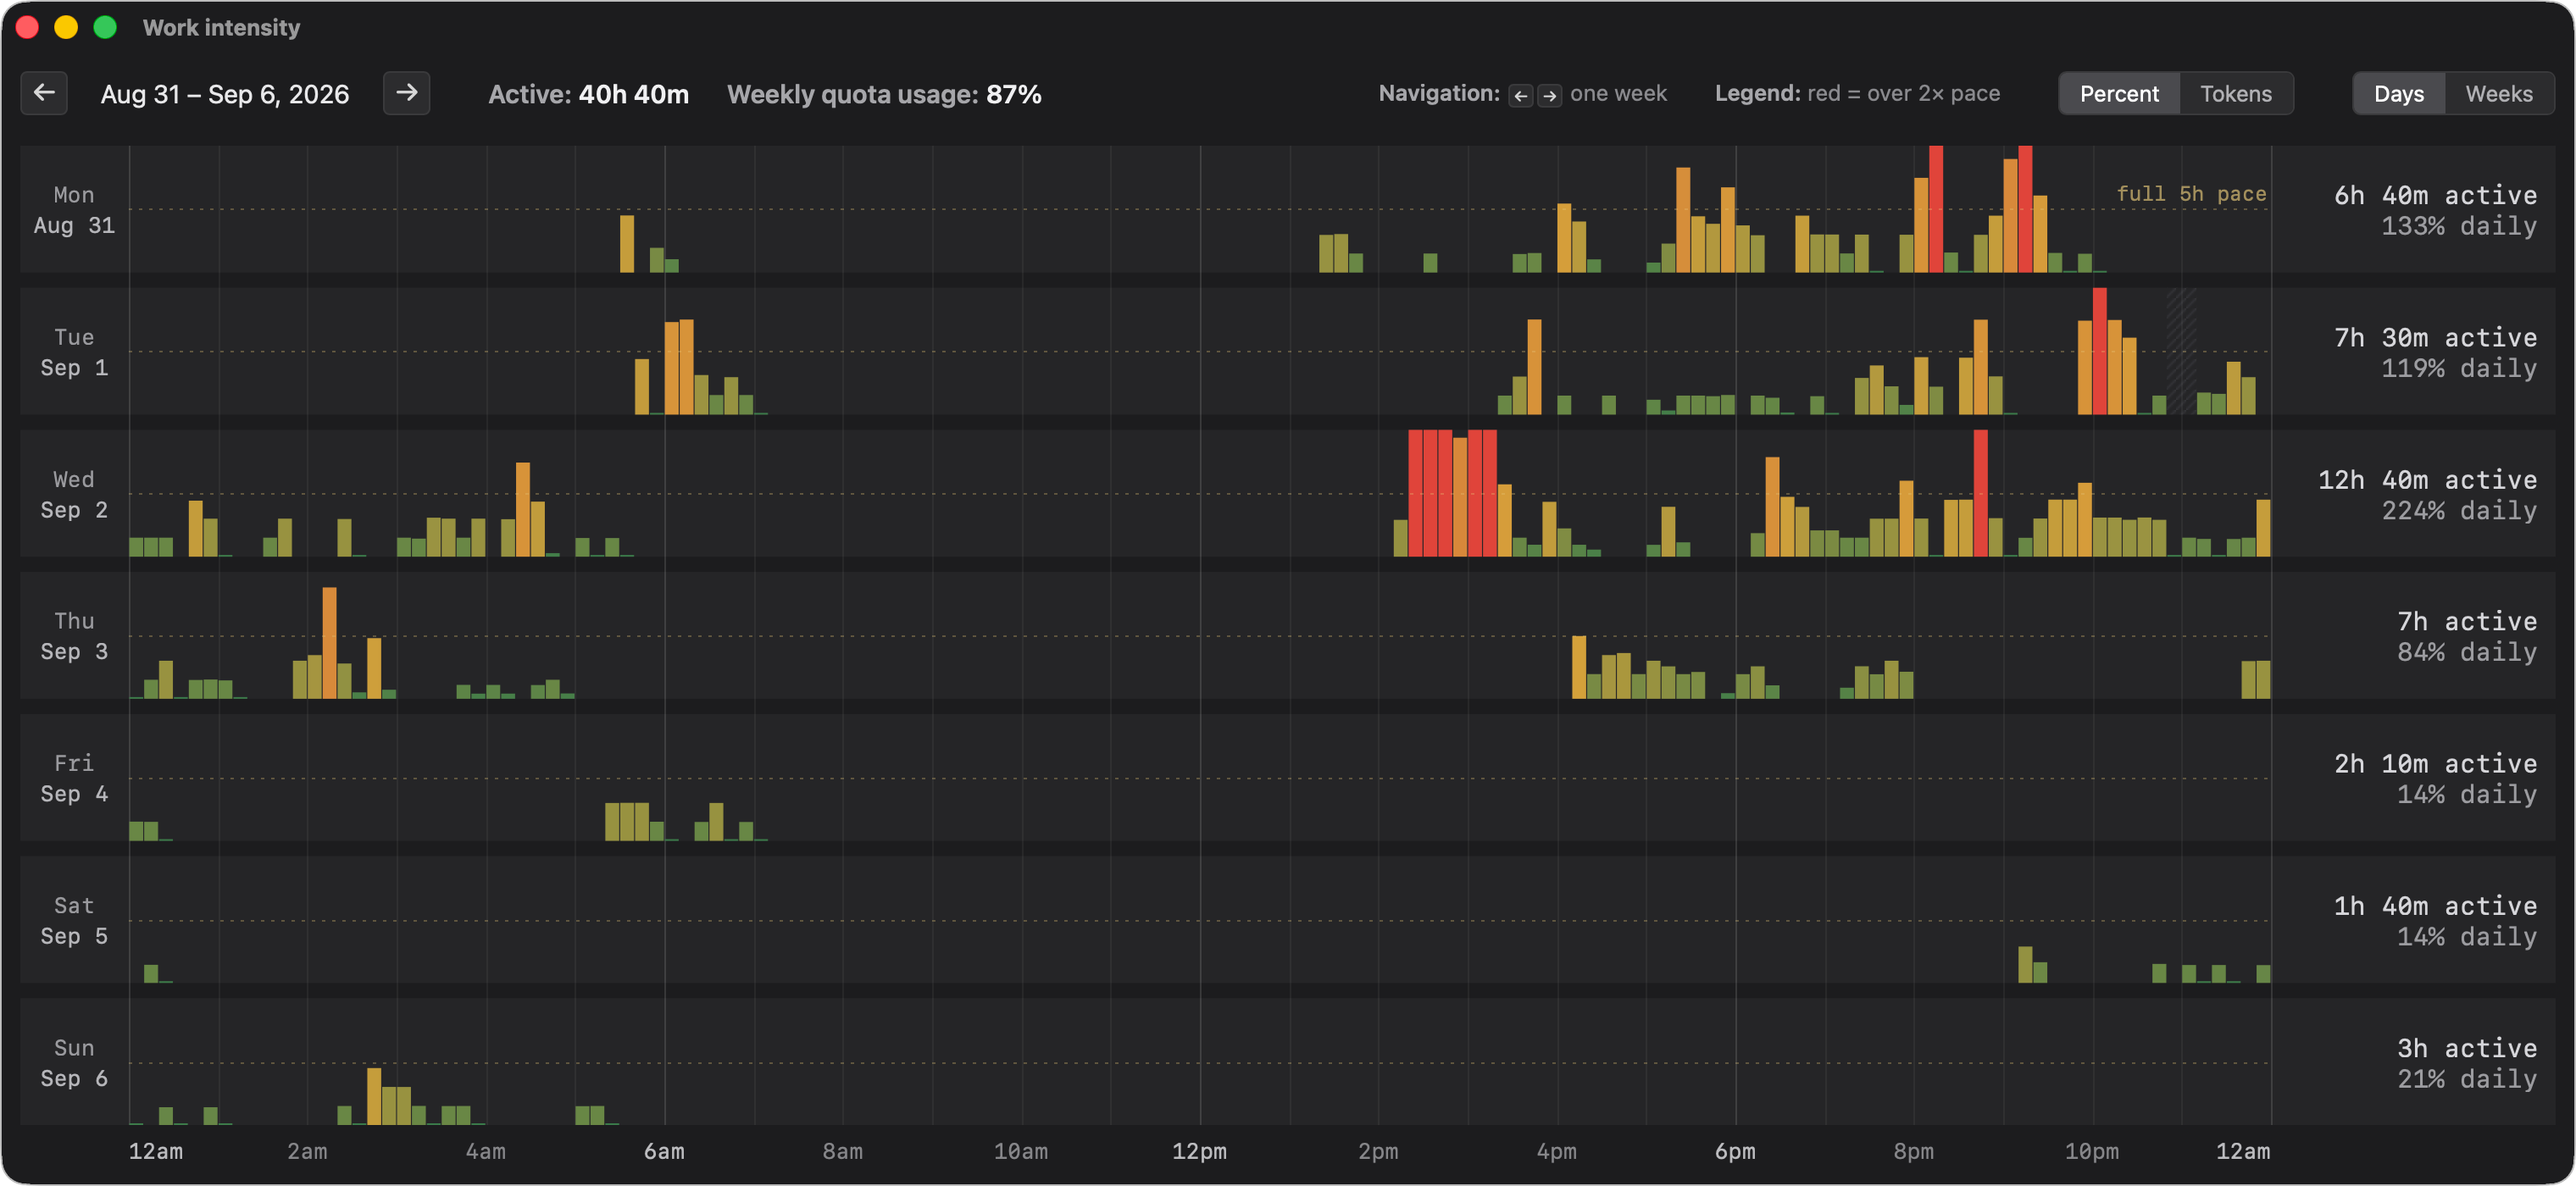
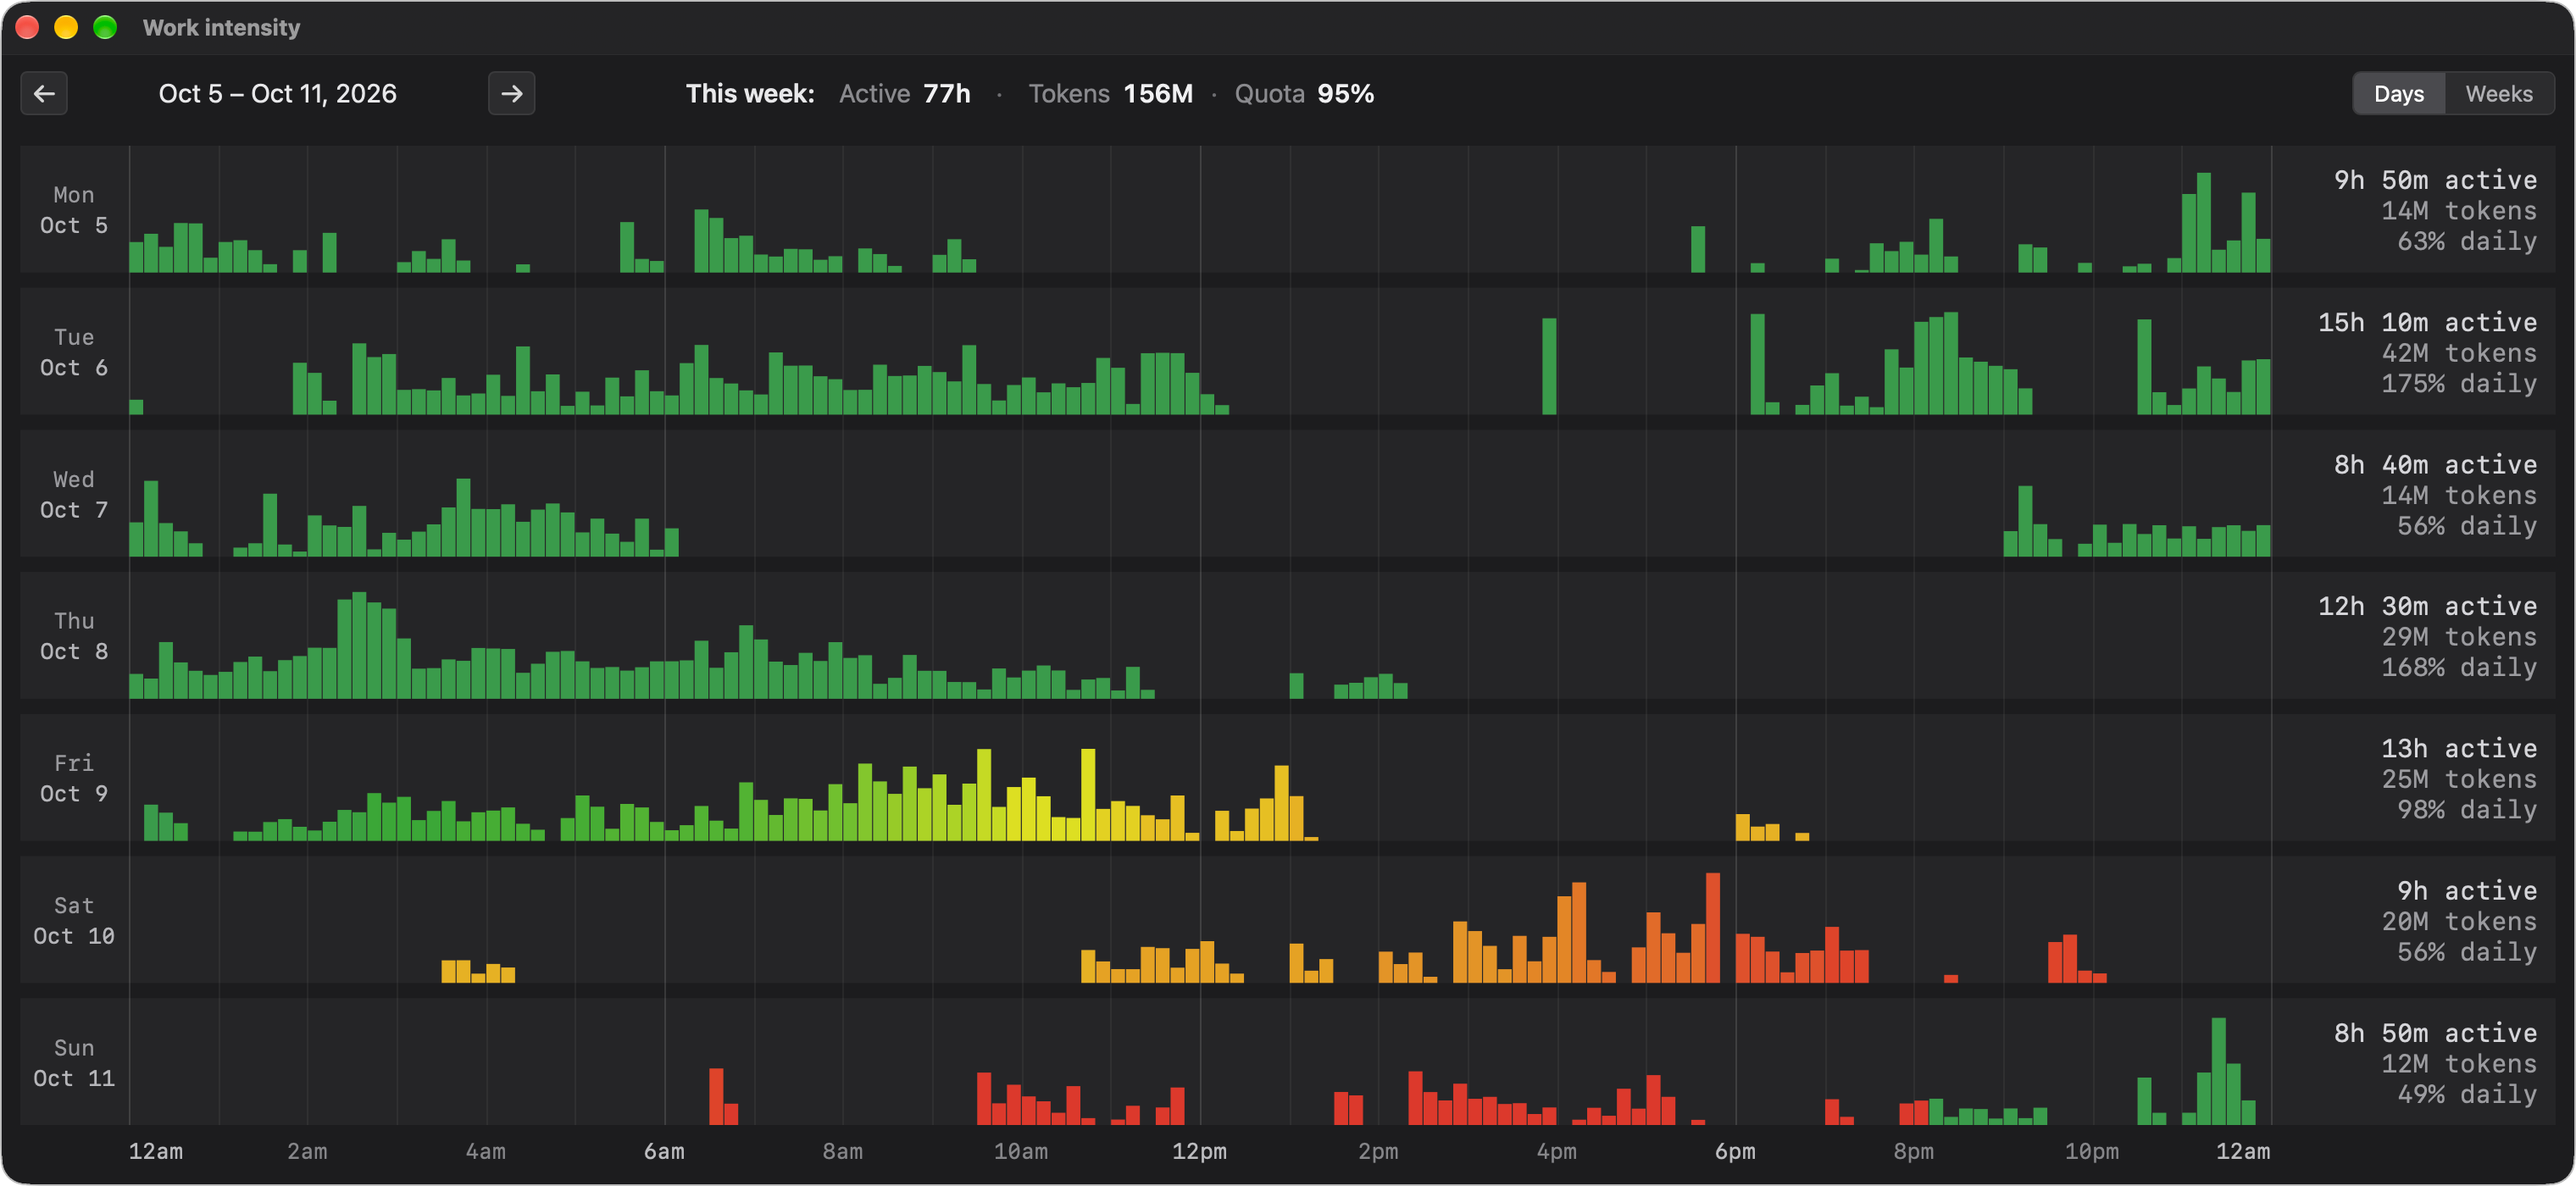
docs(screenshots): re-shoot intensity on Oct 5-11

diff --git a/docs/screenshots/capture/work-intensity-macos.py b/docs/screenshots/capture/work-intensity-macos.py
@@ -4,11 +4,12 @@
 Opens the Work intensity window on a chosen week, sizes it wide enough that the
 header stays on one line, and photographs it with its title bar.
 
-THE SUBJECT IS A WEEK, AND IT IS PINNED BY DATE: Aug 31 - Sep 6, 2026. That is
-the week work-intensity-windows shows, and the week this script's 2026-09-11
-re-shoot put in docs/screenshots/work-intensity-macos.png. A paired figure is
-read as two pictures of one thing, so two different weeks make it a puzzle
-instead of a comparison.
+THE SUBJECT IS A WEEK, AND IT IS PINNED BY DATE: Oct 5 - 11, 2026, the week
+work-intensity-windows shows too. It is pinned there because the weekly limit
+ran past 90% during it, so the bars' colour sweeps from green through yellow to
+red; a week that stayed under 75% draws every bar green and shows nothing of the
+colouring. A paired figure is read as two pictures of one thing, so two
+different weeks make it a puzzle instead of a comparison.
 
 That is why the week is a DATE and not the offset the window's API actually
 takes. An offset counts weeks back from whenever the script runs, so it names a
@@ -41,19 +42,23 @@ WHAT THE OPERATOR STAGES BY HAND, since no argument here can do it:
 
   * Deploy the current build. The frame documents what ships, and this script
     photographs whatever binary is running.
-  * Leave the mouse pointer off the chart window. Hovering a bar raises a
-    tooltip, which then sits in the committed frame. The Windows half parks the
-    pointer clear of the window; this one only LOOKS -- moving the pointer is
-    taking the machine over, which a capture script should not do to a user who
-    asked for a screenshot -- and refuses when the pointer is inside the window's
-    rect at the moment of the shutter. Pointer-outside is a sound test for "no
-    tooltip": the tooltip is raised on the canvas's mousemove and cleared on its
-    mouseleave. The one hole is a resize that moves the window out from under a
-    pointer that never moves, where whether WebKit synthesizes the mouseleave is
-    not established either way. And if the pointer cannot be read at all the run
-    says so on stderr and goes ahead UNCHECKED, rather than passing silently.
+  * Agree to the run first. It takes the machine over for about ten seconds:
+    it opens and resizes a window and moves the pointer, so whoever starts it --
+    a person or an agent -- asks the user immediately before each run.
+
+THE POINTER IS PARKED, as the Windows half parks it: moved BEFORE the window
+opens to the primary display's bottom-right, `PARK_INSET` points in from the
+corner, and put back where it was in the `finally`. Hovering a bar raises a
+tooltip that would sit in the committed frame, and a window that opens under a
+resting pointer is the case moving it off afterwards does not reliably clear.
+Inset rather than on the corner because a corner can be a Hot Corner: this
+machine's bottom-right opens Quick Note, which a pointer parked there would
+trigger. The window opens wherever the user left it, so the park cannot be
+guaranteed clear of it, and the check before the shutter still refuses when the
+pointer is inside the window's rect. If the pointer cannot be read at all the run
+says so on stderr and goes ahead UNCHECKED, rather than passing silently.
 There is deliberately no --force. Each refusal has a one-action remedy (move the
-pointer; add --probe), so an override could only ever defeat a guard that was
+window; add --probe), so an override could only ever defeat a guard that was
 right. The pointer guard also runs for a --probe: a probe that skips it is not a
 rehearsal of the shot.
 
@@ -86,6 +91,8 @@ import ctypes
 import ctypes.util
 import sys
 import time
+from collections.abc import Iterator
+from contextlib import contextmanager
 from datetime import date, datetime, timedelta
 from pathlib import Path
 
@@ -97,6 +104,7 @@ TITLE = "Work intensity"        # the intensity window's title, from tauri.conf.
 OPEN_SETTLE_S = 0.8             # the window comes up, then fetches and draws the week
 RESIZE_SETTLE_S = 2.5           # bars animate in, and the header only re-decides its layout once the window has settled
 FOCUS_SETTLE_S = 0.6            # let the raise finish before the shutter; see the block that spends it
+PARK_INSET = 40                 # points in from the bottom-right corner, clear of a Hot Corner
 
 
 def resolve_offset(week_start: str) -> int:
@@ -128,13 +136,54 @@ class _CGPoint(ctypes.Structure):
     _fields_ = [("x", ctypes.c_double), ("y", ctypes.c_double)]
 
 
+class _CGSize(ctypes.Structure):
+    _fields_ = [("width", ctypes.c_double), ("height", ctypes.c_double)]
+
+
+class _CGRect(ctypes.Structure):
+    _fields_ = [("origin", _CGPoint), ("size", _CGSize)]
+
+
+def _core_graphics() -> ctypes.CDLL | None:
+    path = ctypes.util.find_library("ApplicationServices")
+    return ctypes.cdll.LoadLibrary(path) if path else None
+
+
+def move_pointer(x: float, y: float) -> bool:
+    """Warp the pointer to (x, y) in top-left-origin global points; False when it could not be moved.
+
+    `CGWarpMouseCursorPosition` moves the cursor without posting an event, so it
+    needs no Accessibility grant and clicks nothing.
+    """
+    try:
+        cg = _core_graphics()
+        if cg is None:
+            return False
+        cg.CGWarpMouseCursorPosition.restype, cg.CGWarpMouseCursorPosition.argtypes = ctypes.c_int32, [_CGPoint]
+        return cg.CGWarpMouseCursorPosition(_CGPoint(x, y)) == 0
+    except (OSError, AttributeError):
+        return False
+
+
+def park_point() -> tuple[float, float] | None:
+    """The primary display's bottom-right, `PARK_INSET` points in, or None if the display cannot be read."""
+    try:
+        cg = _core_graphics()
+        if cg is None:
+            return None
+        cg.CGMainDisplayID.restype = ctypes.c_uint32
+        cg.CGDisplayBounds.restype, cg.CGDisplayBounds.argtypes = _CGRect, [ctypes.c_uint32]
+        b = cg.CGDisplayBounds(cg.CGMainDisplayID())
+        return (b.origin.x + b.size.width - PARK_INSET, b.origin.y + b.size.height - PARK_INSET)
+    except (OSError, AttributeError):
+        return None
+
+
 def pointer_location() -> tuple[float, float] | None:
-    """Where the pointer is, in the top-left-origin global points `window_list.swift` reports, or None if it cannot be read.
+    """Where the pointer is, in the top-left-origin global points DocShot's `--list` reports, or None if it cannot be read.
 
     Calling `CGEventCreate(NULL)` snapshots the current event state, the pointer
-    included. It reads and never writes, so it needs no Accessibility grant and
-    takes nothing over: this script looks at the pointer and leaves it exactly
-    where the operator put it.
+    included. It reads and never writes, so it needs no Accessibility grant.
 
     ctypes rather than pyobjc because ctypes is in the standard library, and a
     guard is not worth a dependency. CGPoint is two doubles and comes back in the
@@ -142,10 +191,9 @@ def pointer_location() -> tuple[float, float] | None:
     or it is truncated to an int.
     """
     try:
-        path = ctypes.util.find_library("ApplicationServices")
-        if not path:
+        cg = _core_graphics()
+        if cg is None:
             return None
-        cg = ctypes.cdll.LoadLibrary(path)
         cg.CGEventCreate.restype, cg.CGEventCreate.argtypes = ctypes.c_void_p, [ctypes.c_void_p]
         cg.CGEventGetLocation.restype, cg.CGEventGetLocation.argtypes = _CGPoint, [ctypes.c_void_p]
         cg.CFRelease.argtypes = [ctypes.c_void_p]
@@ -161,6 +209,20 @@ def pointer_location() -> tuple[float, float] | None:
         return None
 
 
+@contextmanager
+def pointer_parked() -> Iterator[None]:
+    """Park the pointer at `park_point` for the run and put it back where it was afterwards."""
+    was = pointer_location()
+    at = park_point()
+    if at is None or not move_pointer(*at):
+        print("WARNING: the pointer could not be parked; the check before the shutter still refuses if it sits over the window.", file=sys.stderr)
+    try:
+        yield
+    finally:
+        if was is not None:
+            move_pointer(*was)
+
+
 def assert_pointer_clear(win: dict) -> None:
     """Refuse when the pointer sits over the window about to be photographed."""
     at = pointer_location()
@@ -169,7 +231,7 @@ def assert_pointer_clear(win: dict) -> None:
         return
     x, y = at
     if win["x"] <= x <= win["x"] + win["w"] and win["y"] <= y <= win["y"] + win["h"]:
-        raise dash.CaptureError(f"The pointer is at ({x:.0f}, {y:.0f}), inside the chart window at ({int(win['x'])}, {int(win['y'])}) {int(win['w'])}x{int(win['h'])}. Hovering a bar raises a tooltip that would be in the frame. Move the pointer off the window and run this again.")
+        raise dash.CaptureError(f"The pointer is at ({x:.0f}, {y:.0f}), inside the chart window at ({int(win['x'])}, {int(win['y'])}) {int(win['w'])}x{int(win['h'])}, after parking. Hovering a bar raises a tooltip that would be in the frame. Move the chart window away from the bottom-right of the main display and run this again.")
 
 
 def restore_size(before: dict, asked_height: int) -> None:
@@ -217,7 +279,7 @@ def reset_week() -> None:
 
 def main() -> int:
     ap = argparse.ArgumentParser(description="Capture the Work intensity figure on macOS.", allow_abbrev=False)
-    ap.add_argument("--week-start", default="2026-08-31", help="Monday of the week to photograph, YYYY-MM-DD (default: the week the Windows variant shows)")
+    ap.add_argument("--week-start", default="2026-10-05", help="Monday of the week to photograph, YYYY-MM-DD (default: the week the Windows variant shows)")
     ap.add_argument("--offset", type=int, help="weeks back from this one, overriding --week-start; for looking around, so it requires --probe. A positive value is refused by the window API as future_week")
     ap.add_argument("--width", type=int, default=1520, help="content width in logical px (default: 1520, measured here to keep the header on one line)")
     ap.add_argument("--height", type=int, default=700, help="content height in logical px (default: 700, the Windows variant's)")
@@ -235,7 +297,7 @@ def main() -> int:
 
     out = dash.probe_path("work-intensity-probe") if args.probe else dash.shot_path(FIGURE)
 
-    with dash.widget_hidden():
+    with pointer_parked(), dash.widget_hidden():
         # `before` is bound ahead of the try so the `finally` can tell "never
         # measured" from "measured": the size is only restorable once it has been
         # read back, and a failure before that must still reset the week.
